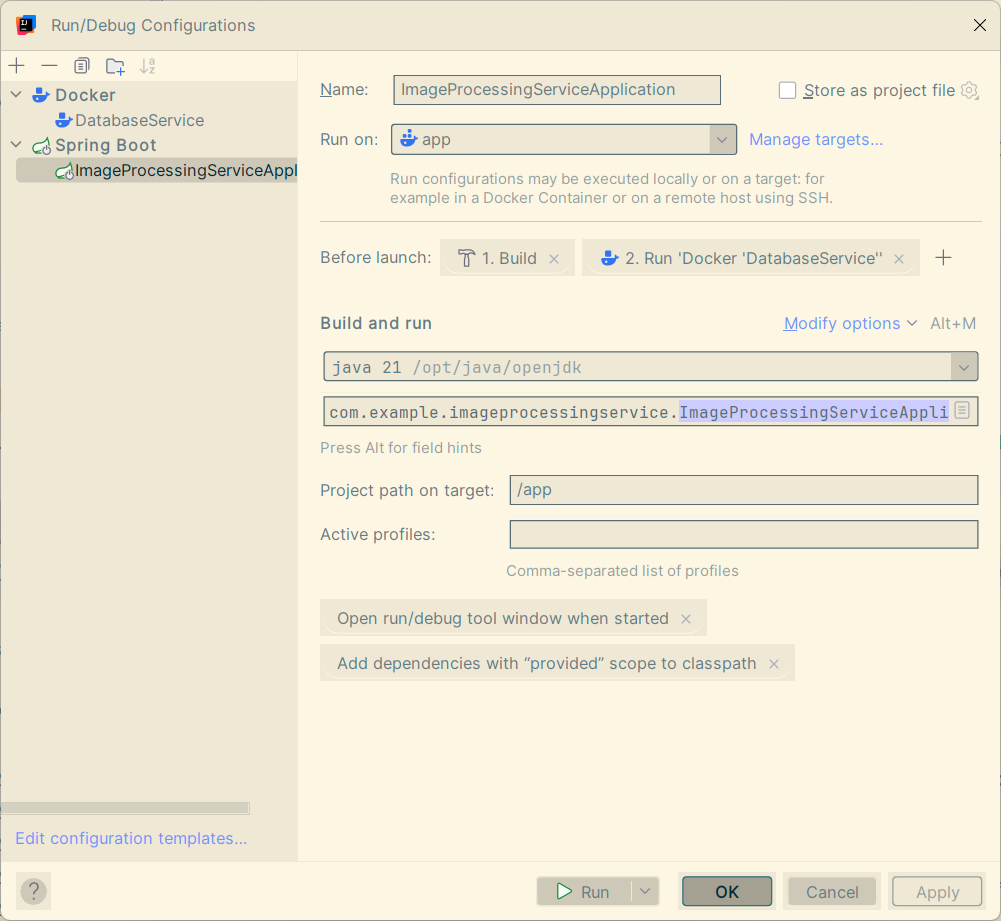
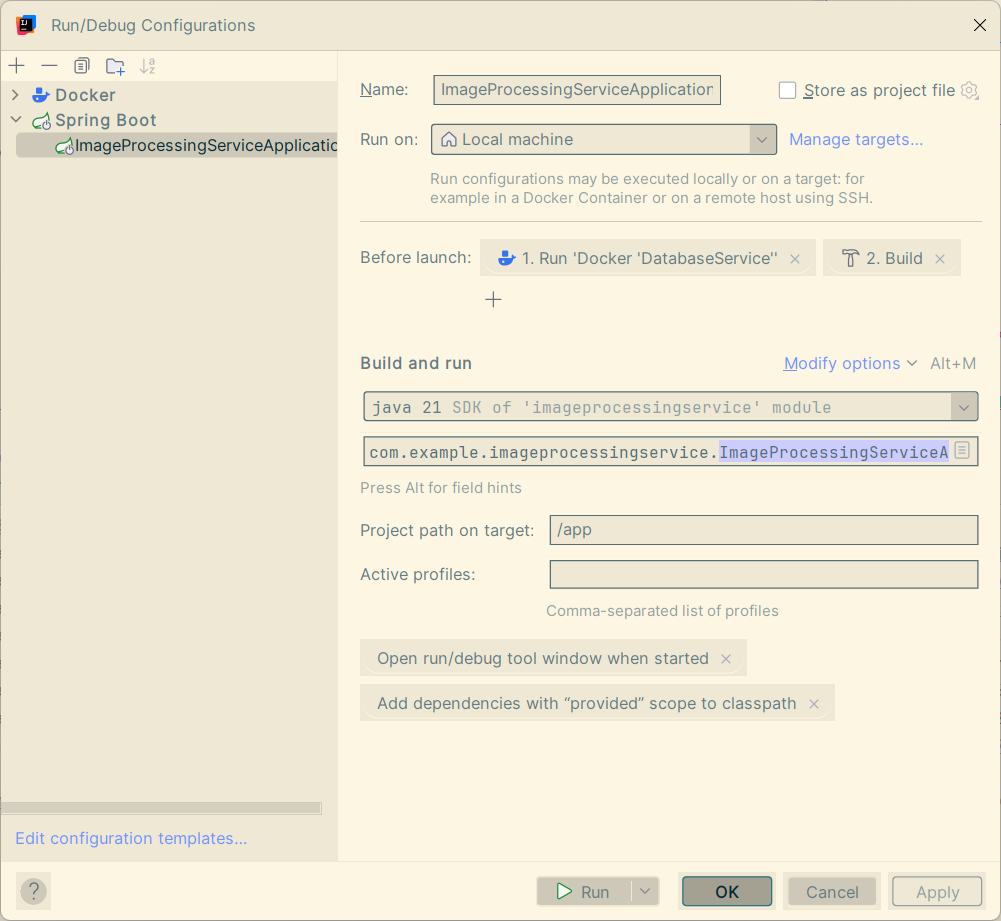
closed #24, implemented basic API test, exported Postman API client settings

diff --git a/src/main/java/com/example/imageprocessingservice/controllers/ImageController.java b/src/main/java/com/example/imageprocessingservice/controllers/ImageController.java
@@ -2,10 +2,16 @@ package com.example.imageprocessingservice.controllers;
 
 import com.example.imageprocessingservice.DTOs.ImageResponse;
 import com.example.imageprocessingservice.DTOs.Transformations;
+import com.example.imageprocessingservice.TableModels.ImageCopied;
 import com.example.imageprocessingservice.TableModels.ImageOriginal;
-import com.example.imageprocessingservice.repositories.ImageRepository;
+import com.example.imageprocessingservice.TableModels.ImageTransformed;
+import com.example.imageprocessingservice.TableModels.Superclasses.ImageBase;
+import com.example.imageprocessingservice.repositories.ImageCopiedRepository;
+import com.example.imageprocessingservice.repositories.ImageOriginalRepository;
+import com.example.imageprocessingservice.repositories.ImageTransformedRepository;
 import com.example.imageprocessingservice.utils.TransformImage;
 import io.swagger.v3.oas.annotations.Operation;
+import io.swagger.v3.oas.annotations.Parameter;
 import io.swagger.v3.oas.annotations.media.Content;
 import io.swagger.v3.oas.annotations.media.Schema;
 import io.swagger.v3.oas.annotations.responses.ApiResponse;
@@ -21,14 +27,21 @@ import java.awt.image.BufferedImage;
 import java.io.ByteArrayInputStream;
 import java.io.ByteArrayOutputStream;
 import java.io.IOException;
+import java.util.HashMap;
+import java.util.Map;
+import java.util.Optional;
 
 @RestController
 @RequestMapping("/api/images")
 class ImageController {
-    private final ImageRepository imgRepository;
+    private final ImageOriginalRepository imageOriginalRepository;
+    private final ImageTransformedRepository imageTransformedRepository;
+    private final ImageCopiedRepository imageCopiedRepository;
 
-    ImageController(ImageRepository imgRepository) {
-        this.imgRepository = imgRepository;
+    ImageController(ImageOriginalRepository imageOriginalRepository, ImageTransformedRepository imageTransformedRepository, ImageCopiedRepository imageCopiedRepository) {
+        this.imageOriginalRepository = imageOriginalRepository;
+        this.imageTransformedRepository = imageTransformedRepository;
+        this.imageCopiedRepository = imageCopiedRepository;
     }
 
     @Operation(
@@ -42,9 +55,9 @@ class ImageController {
         image.setName(file.getOriginalFilename());
         image.setData(file.getBytes());
         image.setContentType(file.getContentType());
-        ImageOriginal savedImage = imgRepository.save(image);
+        ImageOriginal savedImage = imageOriginalRepository.save(image);
         //@TODO: Return URL, Id and ContentType
-        String url = "/images/" + savedImage.getId();
+        String url = "/originals/" + savedImage.getId();
 
         ImageResponse response = new ImageResponse(
                 savedImage.getId(),
@@ -55,21 +68,34 @@ class ImageController {
         return ResponseEntity.ok(response);
     }
 
-    @Operation(summary = "Download image by ID")
-    @ApiResponses(value = {
+    @Operation(
+            summary = "Download an image by type and ID",
+            description = "Retrieves an image from originals, transformed, or copied tables."
+    )
+    @ApiResponses({
             @ApiResponse(responseCode = "200", description = "Image retrieved successfully",
-                    content = @Content(mediaType = "image/*",  schema = @Schema(type = "string", format = "binary"))),
+                    content = @Content(mediaType = "image/*")),
             @ApiResponse(responseCode = "404", description = "Image not found")
     })
-    @GetMapping("/{id}")
-    public ResponseEntity<byte[]> downloadImage(@PathVariable Long id) {
-        return imgRepository.findById(id)
-                .map(image -> ResponseEntity.ok()
-                        .header(HttpHeaders.CONTENT_DISPOSITION, "attachment; filename=\"" + image.getName() + "\"")
-                        .contentType(MediaType.parseMediaType(image.getContentType()))
-                        .body(image.getData())
-                )
-                .orElse(ResponseEntity.status(404).body(null));
+    @GetMapping("/{type}/{id}")
+    public ResponseEntity<byte[]> downloadImage(
+            @Parameter(description = "Table type: originals, transformed, or copied", required = true)
+            @PathVariable String type,
+            @Parameter(description = "Image ID", required = true)
+            @PathVariable Long id) {
+        Optional<? extends ImageBase> image = switch(type.toLowerCase()) {
+            case "originals" -> imageOriginalRepository.findById(id);
+            case "transformed" -> imageTransformedRepository.findById(id);
+            case "copied" -> imageCopiedRepository.findById(id);
+            default -> throw new IllegalStateException("Unexpected value: " + type.toLowerCase());
+        };
+        return image.map(img -> ResponseEntity.ok()
+                .header(HttpHeaders.CONTENT_DISPOSITION,
+                        "attachment; filename = \"" + img.getName() + "\"")
+                .contentType(MediaType.parseMediaType(img.getContentType()))
+                .body(img.getData()))
+                .orElseGet(() -> ResponseEntity.status(404).body(null));
+
     }
 
     @Operation(summary = "Apply transformations to an image")
@@ -77,8 +103,8 @@ class ImageController {
             @ApiResponse(responseCode = "200", description = "Transformations applied successfully"),
             @ApiResponse(responseCode = "404", description = "Image not found")
     })
-    @PatchMapping("/{id}")
-    public ResponseEntity<byte[]>  transformImage(
+    @PatchMapping("originals/{id}")
+    public ResponseEntity<Map<String, Object>>  transformImage(
             @PathVariable Long id,
             @io.swagger.v3.oas.annotations.parameters.RequestBody(
                     description = "Transformations to apply",
@@ -86,8 +112,12 @@ class ImageController {
                     content = @Content(schema = @Schema(implementation = Transformations.class))
             )
             @RequestBody Transformations transformations) throws IOException {
-        ImageOriginal dbImage = imgRepository.findById(id).orElseThrow();
-        BufferedImage original = ImageIO.read(new ByteArrayInputStream(dbImage.getData()));
+        ImageOriginal imageOriginal = imageOriginalRepository.findById(id)
+                .orElseThrow(() -> new IllegalArgumentException("Original image not found"));
+        BufferedImage original = ImageIO.read(new ByteArrayInputStream(imageOriginal.getData()));
+        if (original == null) {
+            throw new IOException("Could not decode original image bytes.");
+        }
 
         TransformImage transformer = new TransformImage(transformations, original);
         BufferedImage transformed = transformer.apply();
@@ -98,27 +128,44 @@ class ImageController {
         ImageIO.write(transformed, format, baos);
         byte[] newBytes = baos.toByteArray();
 
+        Long transformedImgId = null;
+        Long copiedImgId = null;
+
         if (Boolean.TRUE.equals(transformations.saved())) {
-            dbImage.setData(newBytes);
-            dbImage.setContentType("image/" + format);
-            imgRepository.save(dbImage);
+            try {
+                ImageTransformed transformedImg = new ImageTransformed();
+                transformedImg.setImageOriginal(imageOriginal);
+                transformedImg.setName(imageOriginal.getName() + "_transformed");
+                transformedImg.setData(newBytes);
+                transformedImg.setContentType("image/" + format);
+                imageTransformedRepository.save(transformedImg);
+                transformedImgId = transformedImg.getId();
+            }
+            catch (Exception e) {
+                throw new IllegalArgumentException("Failed to save transformed image", e);
+            }
         }
 
-        String transformedImgName = "";
         if (Boolean.TRUE.equals(transformations.copied())) {
-            ImageOriginal transformedImg = new ImageOriginal();
-            transformedImg.setName(dbImage.getName() + "_transformed");
-            transformedImg.setContentType("image/" + format);
-            transformedImg.setData(newBytes);
-            imgRepository.save(transformedImg);
-            imgRepository.save(dbImage);
-            transformedImgName = transformedImg.getId().toString();
+            try {
+                ImageCopied copiedImg = new ImageCopied();
+                copiedImg.setImageOriginal(imageOriginal);
+                copiedImg.setName(imageOriginal.getName() + "_copied");
+                copiedImg.setContentType("image/" + format);
+                copiedImg.setData(newBytes);
+                imageCopiedRepository.save(copiedImg);
+                copiedImgId = copiedImg.getId();
+            }
+            catch (Exception e) {
+                throw new IllegalArgumentException("Failed to save copied image", e);
+            }
         }
+        Map<String, Object> response = new HashMap<>();
+        response.put("transformed image id", transformedImgId);
+        response.put("copy image id", copiedImgId);
+        response.put("contentType", "image/" + format);
+        return ResponseEntity.ok(response);
 
-        return ResponseEntity.ok()
-                .header("Content-Type", "image/" + format)
-                .header("X-Image-Id", transformedImgName)
-                .body(newBytes);
     }
 
 }

diff --git a/src/main/java/com/example/imageprocessingservice/TableModels/ImageOriginal.java b/src/main/java/com/example/imageprocessingservice/TableModels/ImageOriginal.java
@@ -9,9 +9,9 @@ import java.util.List;
 @Entity
 @Table(name = "originals")
 public class ImageOriginal extends ImageBase {
-    @OneToMany(mappedBy = "original", cascade = CascadeType.ALL, fetch = FetchType.LAZY)
+    @OneToMany(mappedBy = "imageOriginal", cascade = CascadeType.ALL, fetch = FetchType.LAZY)
     private List<ImageTransformed> transformedImages =  new ArrayList<>();
 
-    @OneToMany(mappedBy = "original", cascade = CascadeType.ALL)
+    @OneToMany(mappedBy = "imageOriginal", cascade = CascadeType.ALL)
     private List<ImageCopied> copiedImages = new ArrayList<>();
 }

diff --git a/src/main/java/com/example/imageprocessingservice/repositories/ImageCopiedRepository.java b/src/main/java/com/example/imageprocessingservice/repositories/ImageCopiedRepository.java
@@ -1,0 +1,13 @@
+package com.example.imageprocessingservice.repositories;
+
+import com.example.imageprocessingservice.TableModels.ImageCopied;
+import com.example.imageprocessingservice.TableModels.ImageOriginal;
+import com.example.imageprocessingservice.TableModels.ImageTransformed;
+import org.springframework.data.jpa.repository.JpaRepository;
+
+import java.util.List;
+
+public interface ImageCopiedRepository extends JpaRepository<ImageCopied, Long> {
+    List<ImageTransformed> findByImageOriginal_Id(Long originalId);
+}
+

diff --git a/src/main/java/com/example/imageprocessingservice/repositories/ImageTransformedRepository.java b/src/main/java/com/example/imageprocessingservice/repositories/ImageTransformedRepository.java
@@ -1,0 +1,13 @@
+package com.example.imageprocessingservice.repositories;
+
+import com.example.imageprocessingservice.TableModels.ImageTransformed;
+import org.springframework.data.jpa.repository.JpaRepository;
+
+import java.util.List;
+
+
+public interface ImageTransformedRepository extends JpaRepository<ImageTransformed, Long> {
+    List<ImageTransformed> findByImageOriginal_Id(Long originalId);
+}
+
+

diff --git a/src/main/java/com/example/imageprocessingservice/TableModels/ImageTransformed.java b/src/main/java/com/example/imageprocessingservice/TableModels/ImageTransformed.java
@@ -10,4 +10,11 @@ public class ImageTransformed extends ImageBase {
     @JoinColumn(name = "original_id", nullable = false)
     private ImageOriginal imageOriginal;
 
+    public ImageOriginal getImageOriginal() {
+        return imageOriginal;
+    }
+
+    public void setImageOriginal(ImageOriginal imageOriginal) {
+        this.imageOriginal = imageOriginal;
+    }
 }

diff --git a/src/main/java/com/example/imageprocessingservice/repositories/ImageOriginalRepository.java b/src/main/java/com/example/imageprocessingservice/repositories/ImageOriginalRepository.java
@@ -2,5 +2,5 @@ package com.example.imageprocessingservice.repositories;
 import com.example.imageprocessingservice.TableModels.ImageOriginal;
 import org.springframework.data.jpa.repository.JpaRepository;
 
-public interface ImageRepository extends JpaRepository<ImageOriginal, Long> {
+public interface ImageOriginalRepository extends JpaRepository<ImageOriginal, Long> {
 }

diff --git a/src/main/java/com/example/imageprocessingservice/TableModels/ImageCopied.java b/src/main/java/com/example/imageprocessingservice/TableModels/ImageCopied.java
@@ -10,4 +10,11 @@ public class ImageCopied extends ImageBase {
     @JoinColumn(name = "original_id", nullable = false)
     private ImageOriginal imageOriginal;
 
+    public ImageOriginal getImageOriginal() {
+        return imageOriginal;
+    }
+
+    public void setImageOriginal(ImageOriginal imageOriginal) {
+        this.imageOriginal = imageOriginal;
+    }
 }

diff --git a/README.md b/README.md
@@ -19,6 +19,7 @@ or just safely tucked into a database.
 
 The whole thing is dockerized, so you don't have to summon any local
 dependency demons. By default, it runs with Docker Compose.
+To run it in docker, first simply comment line with spring.profiles.active=local in application.properties and uncomment spring.profiles.active=docker
 
 Spin it up from the project directory with:
 
@@ -26,7 +27,7 @@ Spin it up from the project directory with:
 docker compose -f docker-compose.yml   -p imageprocessingservice up -d --build
 ```
 
-I've also set up an IntelliJ IDEA run configuration for convenience:\
+I've also set up an IntelliJ IDEA debug configuration for convenience, where only DB is dockerized:\
 ![img.png](readme-images/img.png)
 
 For faster builds, this project uses **BuildKit** magic:\
@@ -36,30 +37,3 @@ There's also a handy init script at `db/init/init.sql` which sets up the
 database and seeds it with some starting data.\
 *(In the next version, this whole init process will be automated ---)*
 
-------------------------------------------------------------------------
-
-### 🔐 API Examples(Basic Auth Required)
-
-#### Add an Image to the DB
-
-``` bash
-curl -X POST 'http://localhost:8080/api/images'   --header 'Content-Type: multipart/form-data'   --form file=@/path/to/image.jpeg;type=image/jpeg   --user 'username:secret'
-```
-
-#### Fetch an Image
-
-``` bash
-curl -X GET 'http://localhost:8080/api/images/1'   --user 'username:secret'
-```
-
-#### Transform an Image
-
-``` bash
-curl -X POST 'http://localhost:8080/api/images/1/transform'   --header 'Content-Type: application/json'   --data '{
-  "resize": { "width": 800, "height": 600 },
-  "rotate": 90,
-  "format": "png",
-  "filters": { "grayscale": true, "sepia": false },
-  "saved": false
-}'   --user 'username:secret'
-```
